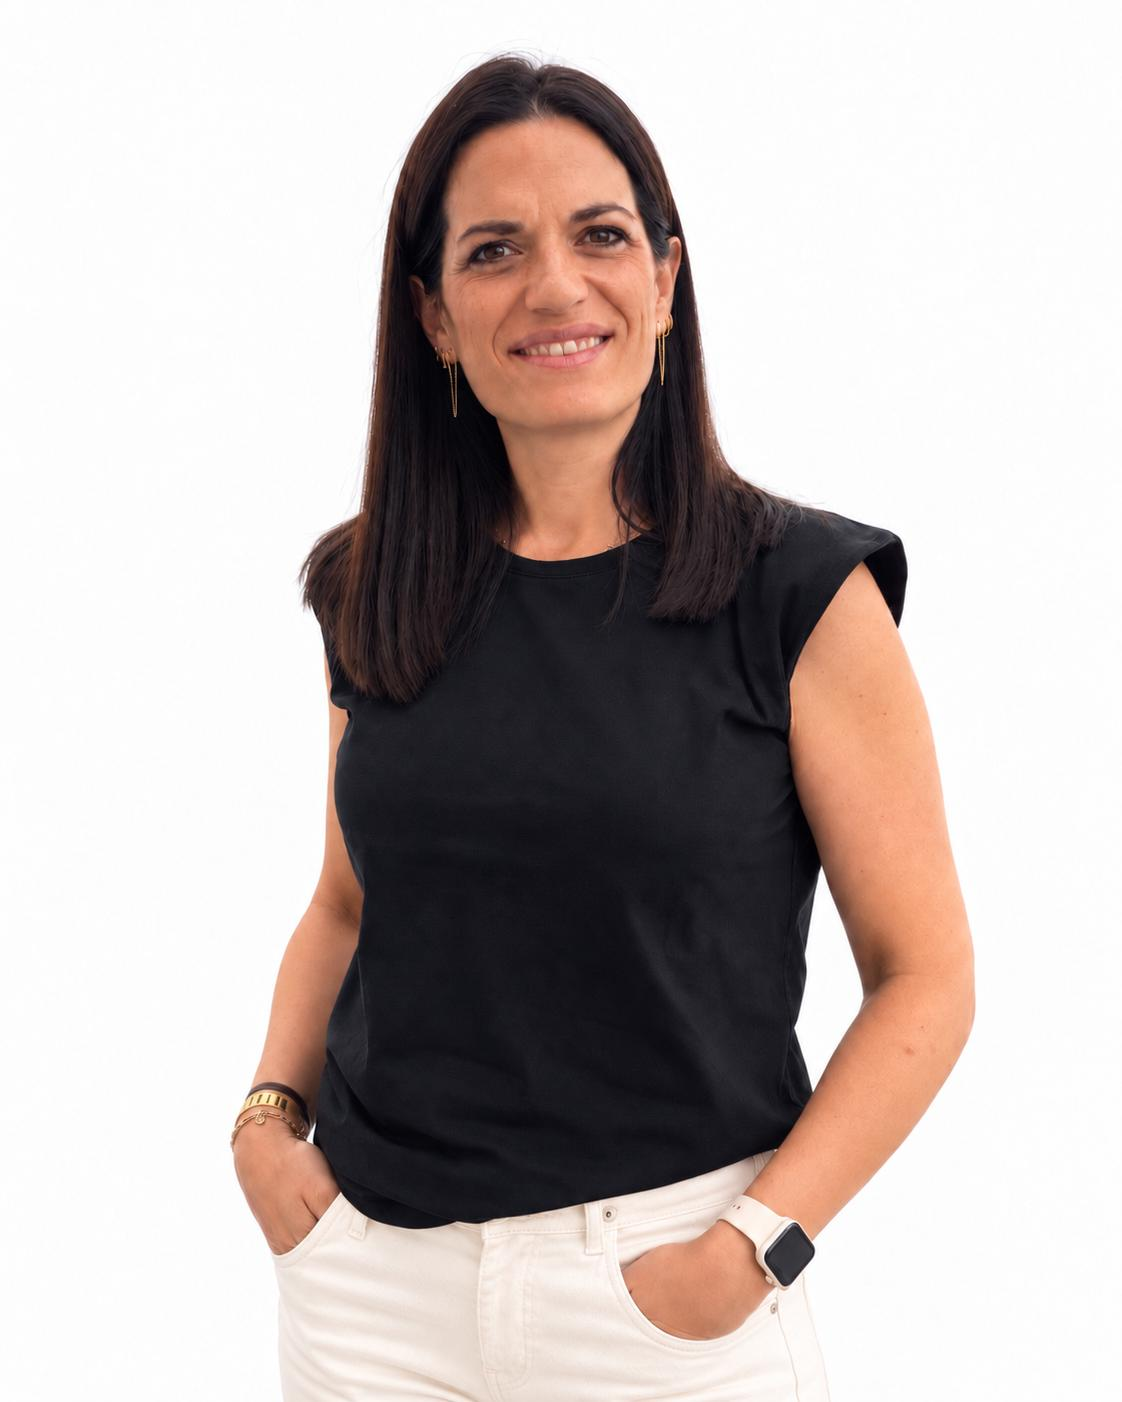
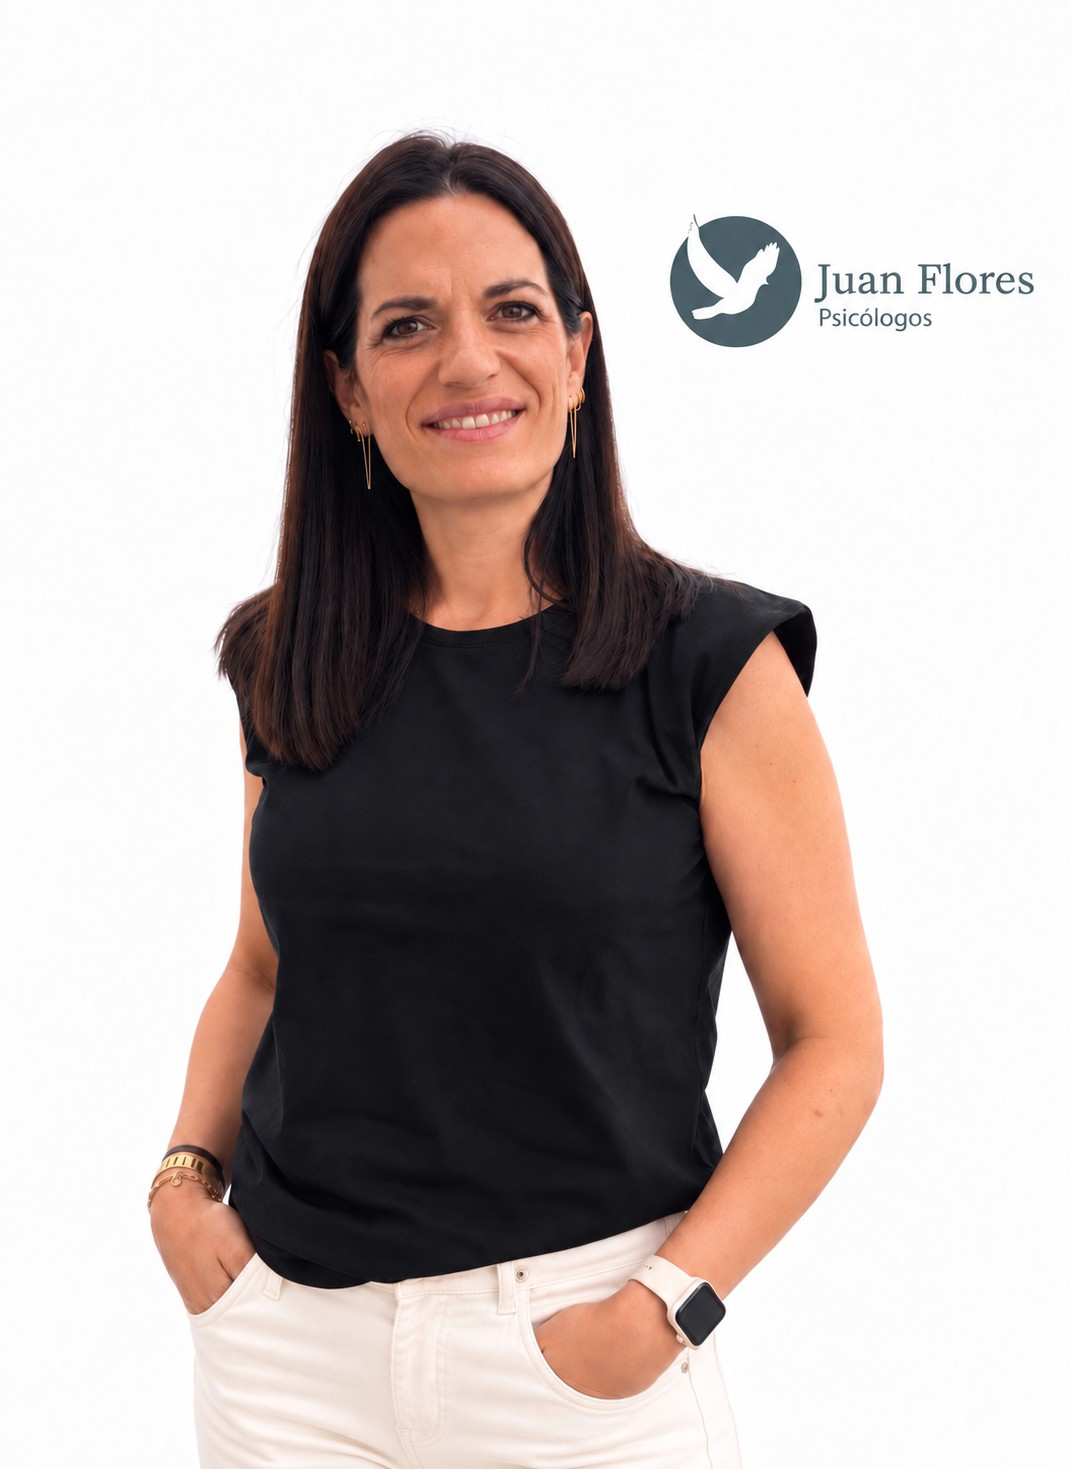
Actualizar foto de María Paz Sastre en el equipo

Changed region(s): [[0.1232, 0.0307, 0.986, 1.0], [0.2773, 0.9508, 0.4314, 1.0]]

diff --git a/equipo/index.html b/equipo/index.html
@@ -141,12 +141,7 @@
     <div class="container">
       <div class="team-grid">
         <div class="team-card reveal">
-          <div class="team-photo">
-            <picture>
-              <source srcset="/assets/juan-flores-hero.webp" type="image/webp">
-              <img src="/assets/juan-flores-hero.jpg" alt="Juan Flores Medina, psicólogo sanitario colegiado MU02958" width="1254" height="1254" loading="lazy" decoding="async">
-            </picture>
-          </div>
+          <div class="team-photo"><picture><source srcset="/assets/juan-flores-hero.webp" type="image/webp"><img src="/assets/juan-flores-hero.jpg" alt="Juan Flores Medina, psicólogo sanitario colegiado MU02958" loading="lazy" decoding="async"></picture></div>
           <div class="tc-body">
             <h3>Juan Flores</h3>
             <span class="role">Director</span>

diff --git a/scripts/build_team.py b/scripts/build_team.py
@@ -45,14 +45,18 @@ def esc(s):
 # ---------------------------------------------------------------------------
 # 1) Tarjetas de /equipo/
 # ---------------------------------------------------------------------------
+JUAN_TEAM_PHOTO = DATA.get("juan_team_photo") or "/assets/juan-flores-hero.jpg"
+JUAN_TEAM_PHOTO_POSITION = DATA.get("juan_team_photo_position")
+
+
 def team_card_juan():
-    return '''        <div class="team-card reveal">
-          <div class="team-photo">
-            <picture>
-              <source srcset="/assets/juan-flores-hero.webp" type="image/webp">
-              <img src="/assets/juan-flores-hero.jpg" alt="Juan Flores Medina, psicólogo sanitario colegiado MU02958" width="1254" height="1254" loading="lazy" decoding="async">
-            </picture>
-          </div>
+    photo_html = photo_picture_html(
+        JUAN_TEAM_PHOTO,
+        "Juan Flores Medina, psicólogo sanitario colegiado MU02958",
+        object_position=JUAN_TEAM_PHOTO_POSITION,
+    )
+    return f'''        <div class="team-card reveal">
+          <div class="team-photo">{photo_html}</div>
           <div class="tc-body">
             <h3>Juan Flores</h3>
             <span class="role">Director</span>
